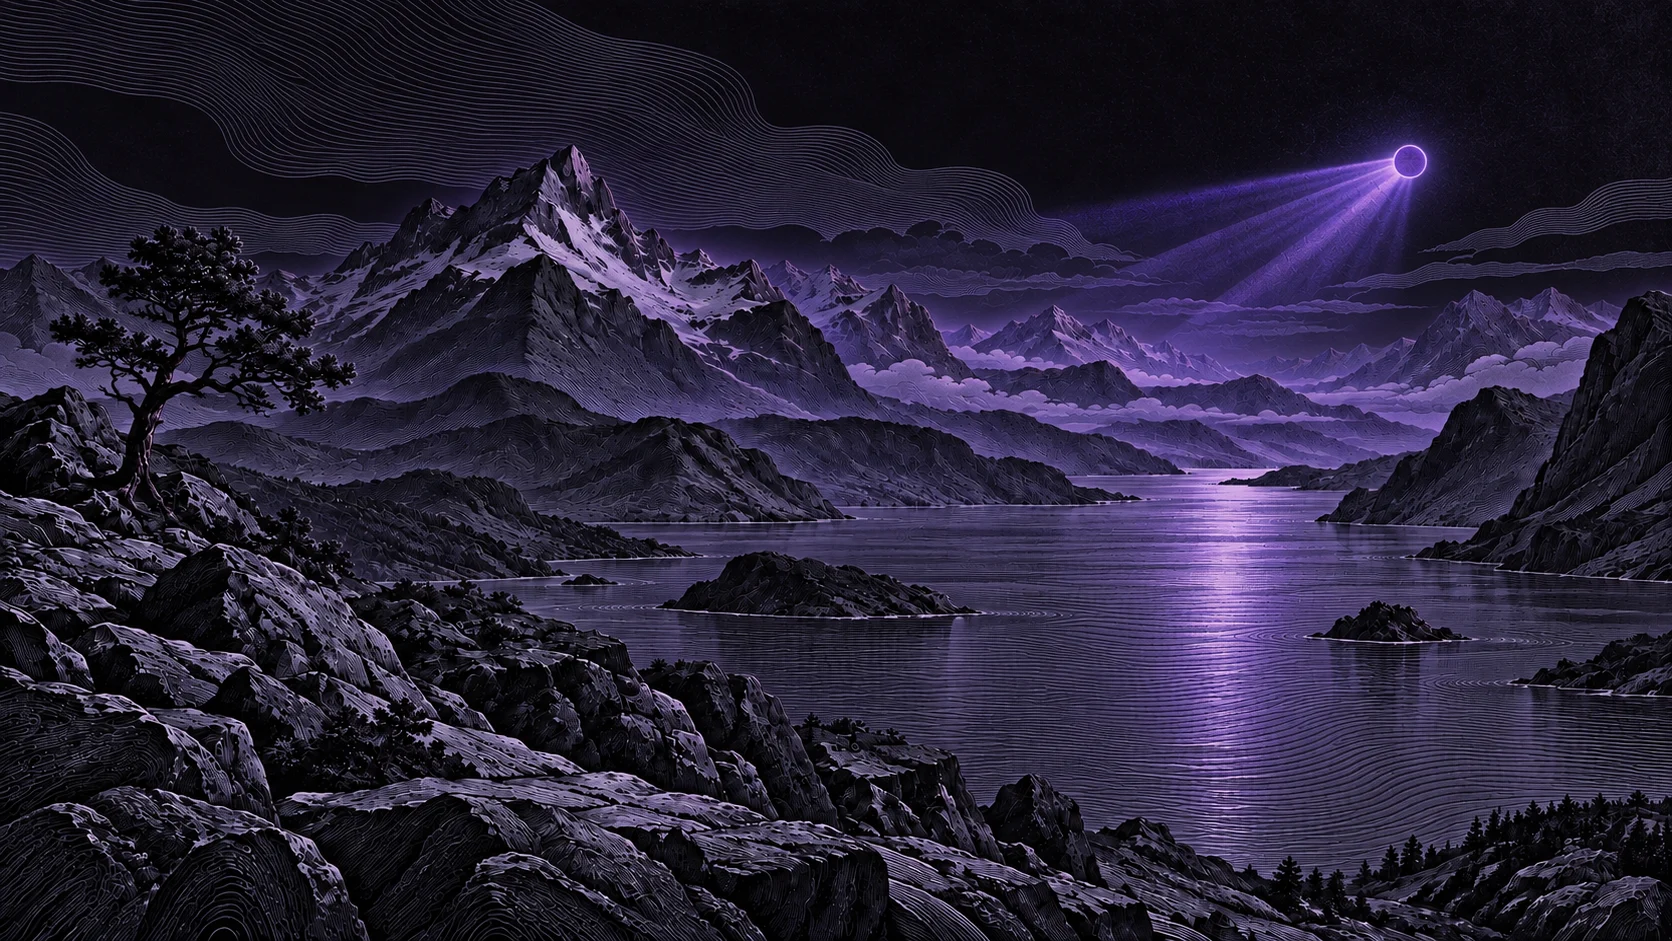
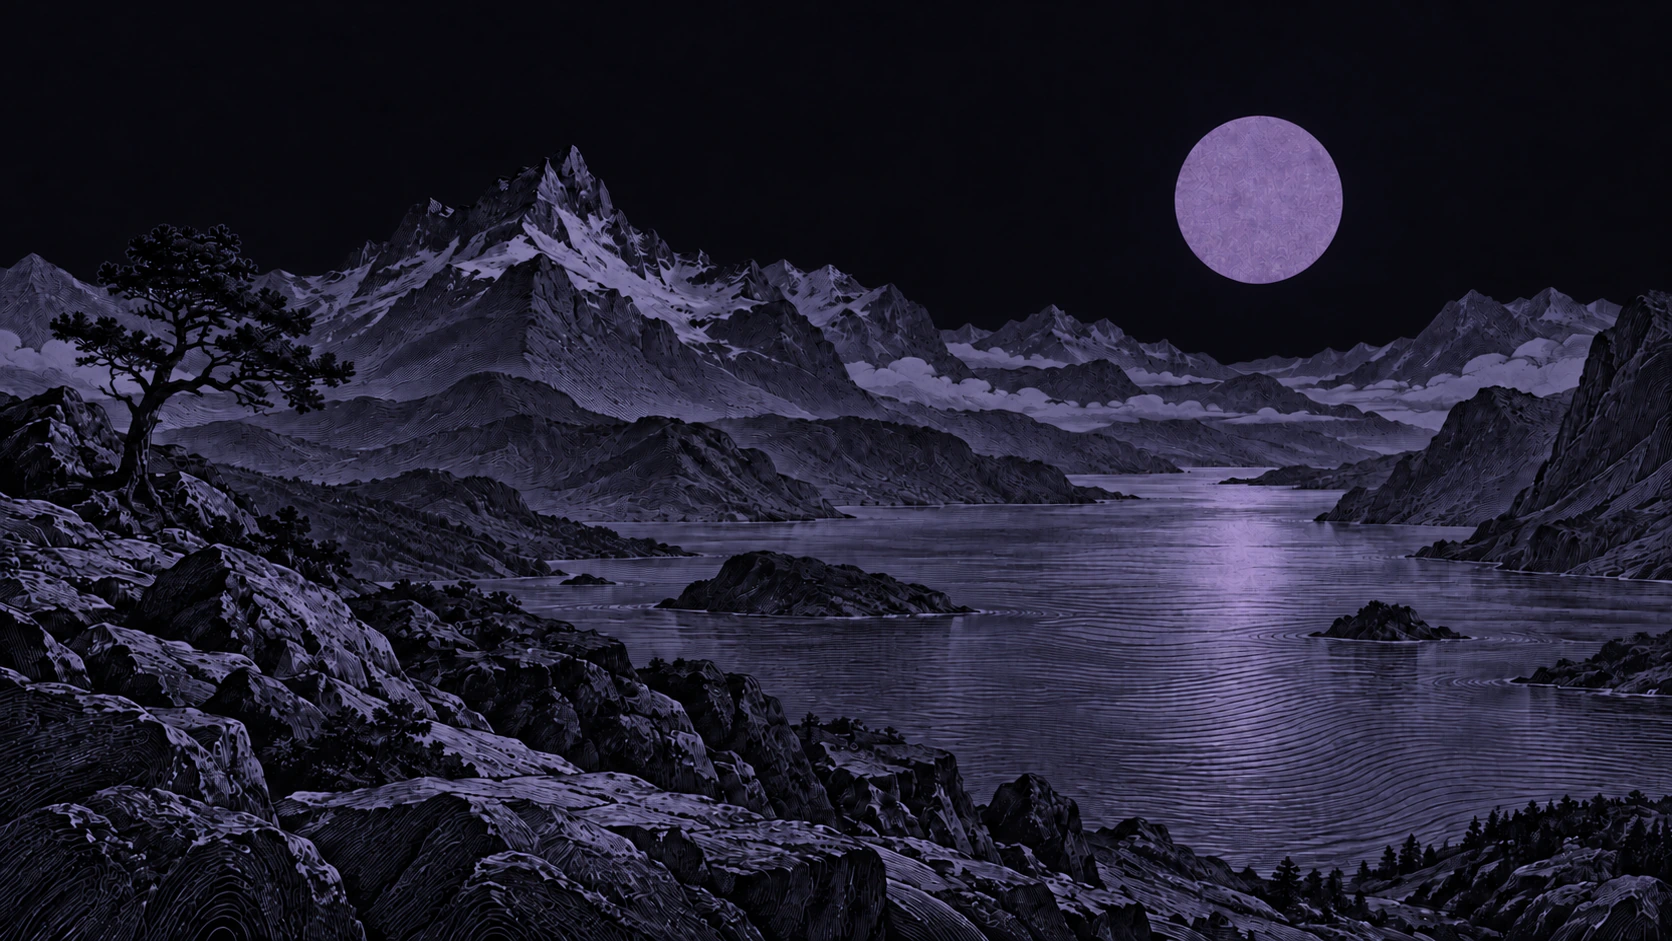
Refine landing fades harness diagram and footer artwork

diff --git a/apps/landing/src/style.css b/apps/landing/src/style.css
@@ -36,13 +36,13 @@
     --tweet-ink: rgba(236,231,247,0.82);
     --nav-control-height: 30px;
     --nav-height: 64px;
-    --nav-fade-height: 80px;
+    --nav-fade-height: 28px;
     --sans: "Geist", system-ui, -apple-system, sans-serif;
     --mono: "Geist Mono", ui-monospace, "SF Mono", Menlo, monospace;
     --serif: "Instrument Serif", Georgia, serif;
     --radius: 20px;
     --sec: clamp(88px, 8vw, 120px);
-    --footer-fade-height: clamp(120px, 22vh, 260px);
+    --footer-fade-height: 64px;
   }
   :root[data-theme="light"] {
     color-scheme: light;
@@ -100,7 +100,9 @@
     left: 0;
     right: 0;
     height: var(--footer-fade-height);
-    background: linear-gradient(to bottom, var(--bg), transparent);
+    background: var(--bg);
+    -webkit-mask-image: linear-gradient(to bottom, #000 0%, #000000d9 35%, #00000073 70%, transparent 100%);
+    mask-image: linear-gradient(to bottom, #000 0%, #000000d9 35%, #00000073 70%, transparent 100%);
     pointer-events: none;
   }
   .footer-reveal-space {
@@ -127,10 +129,10 @@
     inset: 0 0 auto;
     height: calc(var(--nav-height) + var(--nav-fade-height));
     background: color-mix(in srgb, var(--bg) 94%, transparent);
-    -webkit-backdrop-filter: blur(22px) saturate(1.15);
-    backdrop-filter: blur(22px) saturate(1.15);
-    -webkit-mask-image: linear-gradient(to bottom, #000 0, #000 var(--nav-height), #000000f4 calc(var(--nav-height) + 10px), #000000cb calc(var(--nav-height) + 28px), #00000080 calc(var(--nav-height) + 50px), #00000038 calc(var(--nav-height) + 68px), transparent 100%);
-    mask-image: linear-gradient(to bottom, #000 0, #000 var(--nav-height), #000000f4 calc(var(--nav-height) + 10px), #000000cb calc(var(--nav-height) + 28px), #00000080 calc(var(--nav-height) + 50px), #00000038 calc(var(--nav-height) + 68px), transparent 100%);
+    -webkit-backdrop-filter: blur(18px) saturate(1.15);
+    backdrop-filter: blur(18px) saturate(1.15);
+    -webkit-mask-image: linear-gradient(to bottom, #000 0, #000 var(--nav-height), #000000d9 calc(var(--nav-height) + 10px), #00000073 calc(var(--nav-height) + 20px), transparent 100%);
+    mask-image: linear-gradient(to bottom, #000 0, #000 var(--nav-height), #000000d9 calc(var(--nav-height) + 10px), #00000073 calc(var(--nav-height) + 20px), transparent 100%);
     pointer-events: none;
   }
   .nav-inner {
@@ -139,7 +141,7 @@
     gap: 24px;
     height: var(--nav-height);
   }
-  .logo { display: block; width: 87px; }
+  .logo { display: block; width: 72px; }
   .site-nav .links {
     margin-left: auto;
     display: flex;
@@ -349,6 +351,7 @@
     object-fit: cover;
     z-index: -1;
   }
+  .plate-quote .plate-img { inset-block: -8%; height: 116%; }
   .plate-img.light, [data-theme="light"] .plate-img.dark { display: none; }
   [data-theme="light"] .plate-img.light { display: block; }
 
@@ -446,8 +449,8 @@
 
   /* rows sit flush with the wrap edges (headings align with the sections
      above and below); columns separate with gaps instead of inner padding */
-  .p-gallery { display: grid; grid-template-columns: repeat(3, 1fr); gap: 0 22px; }
-  .p-gallery figure { margin: 0; padding: 22px 0 18px; }
+  .p-gallery { display: grid; grid-template-columns: repeat(3, 1fr); gap: 22px; margin-block: 12px 28px; }
+  .p-gallery figure { margin: 0; }
   .p-gallery .screenshot-placeholder { border-color: var(--line-soft); }
   .p-gallery figcaption {
     margin-top: 14px;
@@ -457,13 +460,13 @@
   }
   .p-gallery figcaption b { font-weight: 600; color: var(--ink); }
 
-  .p-harness { display: grid; grid-template-columns: 1.08fr 1fr; }
+  .p-harness { display: grid; grid-template-columns: 1.08fr 1fr; gap: 32px; }
   .p-diagram {
     position: relative;
     display: flex;
     align-items: center;
     justify-content: center;
-    padding: 46px 40px;
+    padding: 36px 28px;
   }
   /* faint dot grid, vignetted so it dissolves before the cell edges */
   .p-diagram::before {
@@ -475,9 +478,7 @@
     mask-image: radial-gradient(72% 72% at 50% 50%, #000 30%, transparent 100%);
     pointer-events: none;
   }
-  /* hub-and-spoke: two overlapping dashed SVG lines per spoke — a faint
-     base plus a sparse purple accent — sharing one dashoffset animation,
-     staggered per spoke so the pulses drift toward the hub in sequence */
+  /* Nine production harnesses around the native Zeron mark. */
   .spoke-wrap {
     position: relative;
     width: 100%;
@@ -510,22 +511,22 @@
     left: 50%;
     top: 50%;
     transform: translate(-50%, -50%);
-    width: 74px;
-    height: 74px;
-    padding: 8px;
+    width: 54px;
+    height: 54px;
+    padding: 6px;
     background: #0c0913;
     border: 1px solid var(--line);
-    border-radius: 17px;
+    border-radius: 14px;
     box-shadow: inset 0 1px 0 rgba(255,255,255,.12), inset 0 0 0 1px rgba(255,255,255,.06);
   }
-  .spoke-hub img { display: block; width: 100%; height: 100%; border-radius: 11px; }
+  .spoke-hub img { display: block; width: 100%; height: 100%; border-radius: 8px; }
   .spoke-node {
     position: absolute;
     transform: translate(-50%, -50%);
     display: flex;
     align-items: center;
     gap: 8px;
-    padding: 7px 13px;
+    padding: 7px 10px;
     background: #0b0812;
     border: 1px solid var(--line);
     border-radius: 999px;
@@ -603,15 +604,37 @@
   }
   @media (max-width: 520px) {
     .p-diagram { padding: 30px 24px; }
-    /* both diagrams stay visible on mobile — everything scales down so the
-       nodes clear each other on a ~260px-wide canvas */
+    .spoke-wrap {
+      display: grid;
+      grid-template-columns: repeat(2, minmax(0, 1fr));
+      gap: 8px;
+      aspect-ratio: auto;
+    }
+    .spoke-wrap > svg, .spoke-wrap::before { display: none; }
+    .spoke-hub {
+      position: relative;
+      left: auto;
+      top: auto;
+      grid-column: 1 / -1;
+      justify-self: center;
+      transform: none;
+      margin-block-end: 12px;
+    }
+    .spoke-node {
+      position: static;
+      transform: none;
+      width: 100%;
+      min-width: 0;
+      justify-content: flex-start;
+      gap: 6px;
+    }
+    .spoke-node .agent-icon { flex: 0 0 auto; }
     .dev-chip { gap: 6px; padding: 4px 9px; }
     .dev-chip svg { width: 11px; height: 11px; }
     .dev-chip span { font-size: 10.5px; }
-    .spoke-node { padding: 5px 10px; }
+    .spoke-node { padding: 7px 8px; }
     .spoke-node .agent-icon { width: 14px; height: 14px; }
     .spoke-node span:last-child { font-size: 11px; }
-    .spoke-hub { width: 56px; height: 56px; padding: 6px; border-radius: 13px; }
   }
   @media (prefers-reduced-motion: reduce) {
     .spoke-line, .spoke-accent { animation: none; }
@@ -817,7 +840,7 @@
     width: 100%;
     height: 100%;
     object-fit: cover;
-    object-position: 50% 50%;
+    object-position: 50% 0%;
   }
   .footer-landscape img.light, [data-theme="light"] .footer-landscape img.dark { display: none; }
   [data-theme="light"] .footer-landscape img.light { display: block; }
@@ -830,7 +853,7 @@
   .footer-inner { position: relative; z-index: 1; margin-top: auto; }
   .footer-wordmark {
     display: block;
-    width: min(76%, 860px);
+    width: min(68%, 760px);
     margin-inline: auto;
   }
   .foot {
@@ -898,8 +921,8 @@
     .footer-intro p { font-size: 14px; }
     .footer-intro .cta-row { margin-top: 14px; }
     .footer-landscape { inset: 34% 0 0; }
-    .footer-landscape img { object-position: 60% center; }
-    .footer-wordmark { width: 100%; }
+    .footer-landscape img { object-position: 70% 0%; }
+    .footer-wordmark { width: 82%; }
     .foot { grid-template-columns: 1fr; justify-items: center; gap: 8px; margin-top: 18px; padding-top: 12px; padding-bottom: 18px; text-align: center; }
     .foot-links { justify-content: center; }
   }

diff --git a/apps/landing/index.html b/apps/landing/index.html
@@ -91,51 +91,45 @@
       <i class="pdot tl"></i><i class="pdot tr"></i><i class="pdot bl"></i><i class="pdot br"></i>
       <div class="panel-row p-harness">
         <div class="p-diagram">
-          <div class="spoke-wrap" aria-hidden="true">
+          <div class="spoke-wrap" role="img" aria-label="Zeron connects Claude Code, Codex, Cursor, Pi, Grok, Devin, Hermes, OpenCode, and Antigravity">
             <svg viewBox="0 0 100 100" preserveAspectRatio="xMidYMid meet">
-              <g>
-                <line x1="50" y1="12" x2="50" y2="39" class="spoke-line" style="animation-delay: 0s"></line>
-                <line x1="50" y1="12" x2="50" y2="39" class="spoke-accent" style="animation-delay: 0s"></line>
-              </g>
-              <g>
-                <line x1="82.91" y1="31" x2="59.53" y2="44.5" class="spoke-line" style="animation-delay: .25s"></line>
-                <line x1="82.91" y1="31" x2="59.53" y2="44.5" class="spoke-accent" style="animation-delay: .25s"></line>
-              </g>
-              <g>
-                <line x1="82.91" y1="69" x2="59.53" y2="55.5" class="spoke-line" style="animation-delay: .5s"></line>
-                <line x1="82.91" y1="69" x2="59.53" y2="55.5" class="spoke-accent" style="animation-delay: .5s"></line>
-              </g>
-              <g>
-                <line x1="50" y1="88" x2="50" y2="61" class="spoke-line" style="animation-delay: .75s"></line>
-                <line x1="50" y1="88" x2="50" y2="61" class="spoke-accent" style="animation-delay: .75s"></line>
-              </g>
-              <g>
-                <line x1="17.09" y1="69" x2="40.47" y2="55.5" class="spoke-line" style="animation-delay: 1s"></line>
-                <line x1="17.09" y1="69" x2="40.47" y2="55.5" class="spoke-accent" style="animation-delay: 1s"></line>
-              </g>
-              <g>
-                <line x1="17.09" y1="31" x2="40.47" y2="44.5" class="spoke-line" style="animation-delay: 1.25s"></line>
-                <line x1="17.09" y1="31" x2="40.47" y2="44.5" class="spoke-accent" style="animation-delay: 1.25s"></line>
-              </g>
+              <g><line x1="50" y1="50" x2="50" y2="10" class="spoke-line"></line><line x1="50" y1="50" x2="50" y2="10" class="spoke-accent" style="animation-delay: 0s"></line></g>
+              <g><line x1="50" y1="50" x2="78" y2="22" class="spoke-line"></line><line x1="50" y1="50" x2="78" y2="22" class="spoke-accent" style="animation-delay: .2s"></line></g>
+              <g><line x1="50" y1="50" x2="88" y2="44" class="spoke-line"></line><line x1="50" y1="50" x2="88" y2="44" class="spoke-accent" style="animation-delay: .4s"></line></g>
+              <g><line x1="50" y1="50" x2="82" y2="71" class="spoke-line"></line><line x1="50" y1="50" x2="82" y2="71" class="spoke-accent" style="animation-delay: .6s"></line></g>
+              <g><line x1="50" y1="50" x2="63" y2="87" class="spoke-line"></line><line x1="50" y1="50" x2="63" y2="87" class="spoke-accent" style="animation-delay: .8s"></line></g>
+              <g><line x1="50" y1="50" x2="37" y2="87" class="spoke-line"></line><line x1="50" y1="50" x2="37" y2="87" class="spoke-accent" style="animation-delay: 1s"></line></g>
+              <g><line x1="50" y1="50" x2="18" y2="71" class="spoke-line"></line><line x1="50" y1="50" x2="18" y2="71" class="spoke-accent" style="animation-delay: 1.2s"></line></g>
+              <g><line x1="50" y1="50" x2="12" y2="44" class="spoke-line"></line><line x1="50" y1="50" x2="12" y2="44" class="spoke-accent" style="animation-delay: 1.4s"></line></g>
+              <g><line x1="50" y1="50" x2="22" y2="22" class="spoke-line"></line><line x1="50" y1="50" x2="22" y2="22" class="spoke-accent" style="animation-delay: 1.6s"></line></g>
             </svg>
-            <div class="spoke-hub"><img src="/assets/brand/zeron-favicon.svg" width="128" height="128" alt="" /></div>
-            <div class="spoke-node" style="left: 50%; top: 12%">
+            <div class="spoke-hub"><img src="/assets/brand/zeron-favicon.svg" width="54" height="54" alt="" /></div>
+            <div class="spoke-node" style="left: 50%; top: 10%">
               <span class="agent-icon" style="--icon: url('/assets/icons/claude-mark.svg')"></span><span>Claude Code</span>
             </div>
-            <div class="spoke-node" style="left: 82.91%; top: 31%">
+            <div class="spoke-node" style="left: 78%; top: 22%">
               <span class="agent-icon" style="--icon: url('/assets/icons/openai-mark.svg')"></span><span>Codex</span>
             </div>
-            <div class="spoke-node" style="left: 82.91%; top: 69%">
+            <div class="spoke-node" style="left: 88%; top: 44%">
               <span class="agent-icon" style="--icon: url('/assets/icons/cursor-mark.svg')"></span><span>Cursor</span>
             </div>
-            <div class="spoke-node" style="left: 50%; top: 88%">
+            <div class="spoke-node" style="left: 82%; top: 71%">
               <span class="agent-icon" style="--icon: url('/assets/icons/pi-mark.svg')"></span><span>Pi</span>
             </div>
-            <div class="spoke-node" style="left: 17.09%; top: 69%">
+            <div class="spoke-node" style="left: 63%; top: 87%">
+              <span class="agent-icon" style="--icon: url('/assets/icons/grok-mark.svg')"></span><span>Grok</span>
+            </div>
+            <div class="spoke-node" style="left: 37%; top: 87%">
+              <span class="agent-icon" style="--icon: url('/assets/icons/devin-mark.svg')"></span><span>Devin</span>
+            </div>
+            <div class="spoke-node" style="left: 18%; top: 71%">
               <span class="agent-icon" style="--icon: url('/assets/icons/hermes-mark.svg')"></span><span>Hermes</span>
             </div>
-            <div class="spoke-node" style="left: 17.09%; top: 31%">
-              <span class="agent-icon" style="--icon: url('/assets/icons/grok-mark.svg')"></span><span>Grok</span>
+            <div class="spoke-node" style="left: 12%; top: 44%">
+              <span class="agent-icon" style="--icon: url('/assets/icons/opencode-mark.svg')"></span><span>OpenCode</span>
+            </div>
+            <div class="spoke-node" style="left: 22%; top: 22%">
+              <span class="agent-icon" style="--icon: url('/assets/icons/antigravity-mark.svg')"></span><span>Antigravity</span>
             </div>
           </div>
         </div>

diff --git a/apps/landing/src/footer-motion.js b/apps/landing/src/footer-motion.js
@@ -2,10 +2,11 @@ import gsap from 'gsap';
 import { ScrollTrigger } from 'gsap/ScrollTrigger';
 
 // The page scrolls away to uncover a stationary, viewport-sized footer.
-// GSAP adds a small fade and parallax while the last page-height clears it.
+// A short, masked page edge uncovers the fixed footer; GSAP adds gentle depth.
 const footer = document.querySelector('.footer-stage');
 const reveal = document.querySelector('.footer-reveal-space');
 const nav = document.querySelector('.site-nav');
+const quote = document.querySelector('.plate-quote');
 
 if (footer && reveal) {
   gsap.registerPlugin(ScrollTrigger);
@@ -26,11 +27,24 @@ if (footer && reveal) {
       },
     });
     timeline
-      .fromTo(footer, { opacity: 0.6 }, { opacity: 1, duration: 0.5 }, 0)
-      .fromTo(landscape, { scale: 1.07, yPercent: 5 }, { scale: 1, yPercent: 0, duration: 0.9 }, 0)
-      .fromTo(intro, { y: 30, opacity: 0.4 }, { y: 0, opacity: 1, duration: 0.55 }, 0.12)
-      .fromTo(wordmark, { yPercent: 16, opacity: 0.2 }, { yPercent: 0, opacity: 1, duration: 0.55 }, 0.25)
-      .fromTo(foot, { y: 12, opacity: 0.25 }, { y: 0, opacity: 1, duration: 0.4 }, 0.4);
+      .fromTo(landscape, { scale: 1.045, yPercent: 3 }, { scale: 1, yPercent: 0, duration: 1 }, 0)
+      .fromTo(intro, { y: 16 }, { y: 0, duration: 0.65 }, 0.1)
+      .fromTo(wordmark, { yPercent: 7 }, { yPercent: 0, duration: 0.65 }, 0.2)
+      .fromTo(foot, { y: 8 }, { y: 0, duration: 0.5 }, 0.35);
+
+    if (quote) {
+      gsap.fromTo(quote.querySelectorAll('.plate-img'), { yPercent: -5 }, {
+        yPercent: 5,
+        ease: 'none',
+        scrollTrigger: {
+          trigger: quote,
+          start: 'top bottom',
+          end: 'bottom top',
+          scrub: 0.7,
+          invalidateOnRefresh: true,
+        },
+      });
+    }
 
     gsap.fromTo(nav, { autoAlpha: 1 }, {
       autoAlpha: 0,
